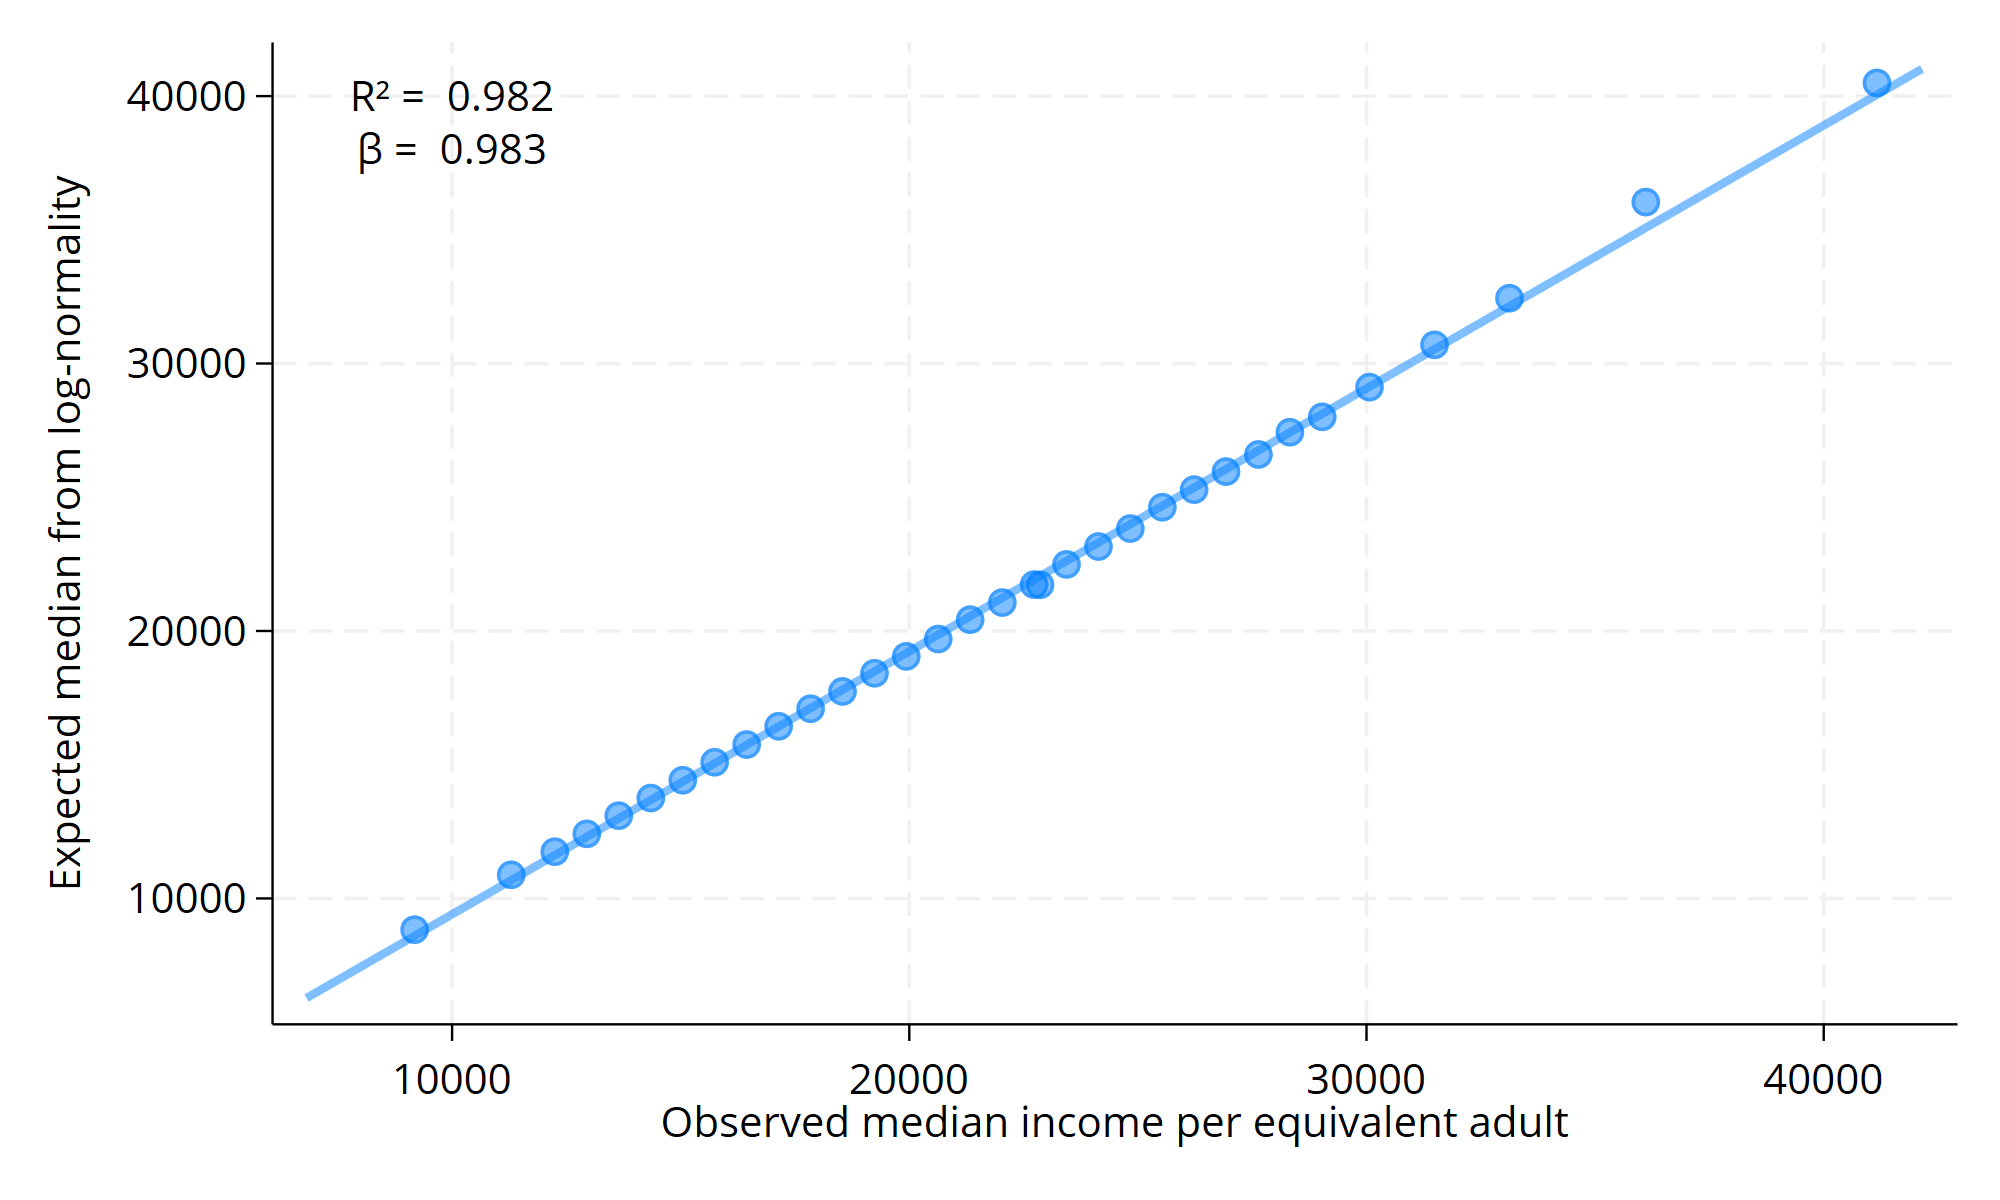
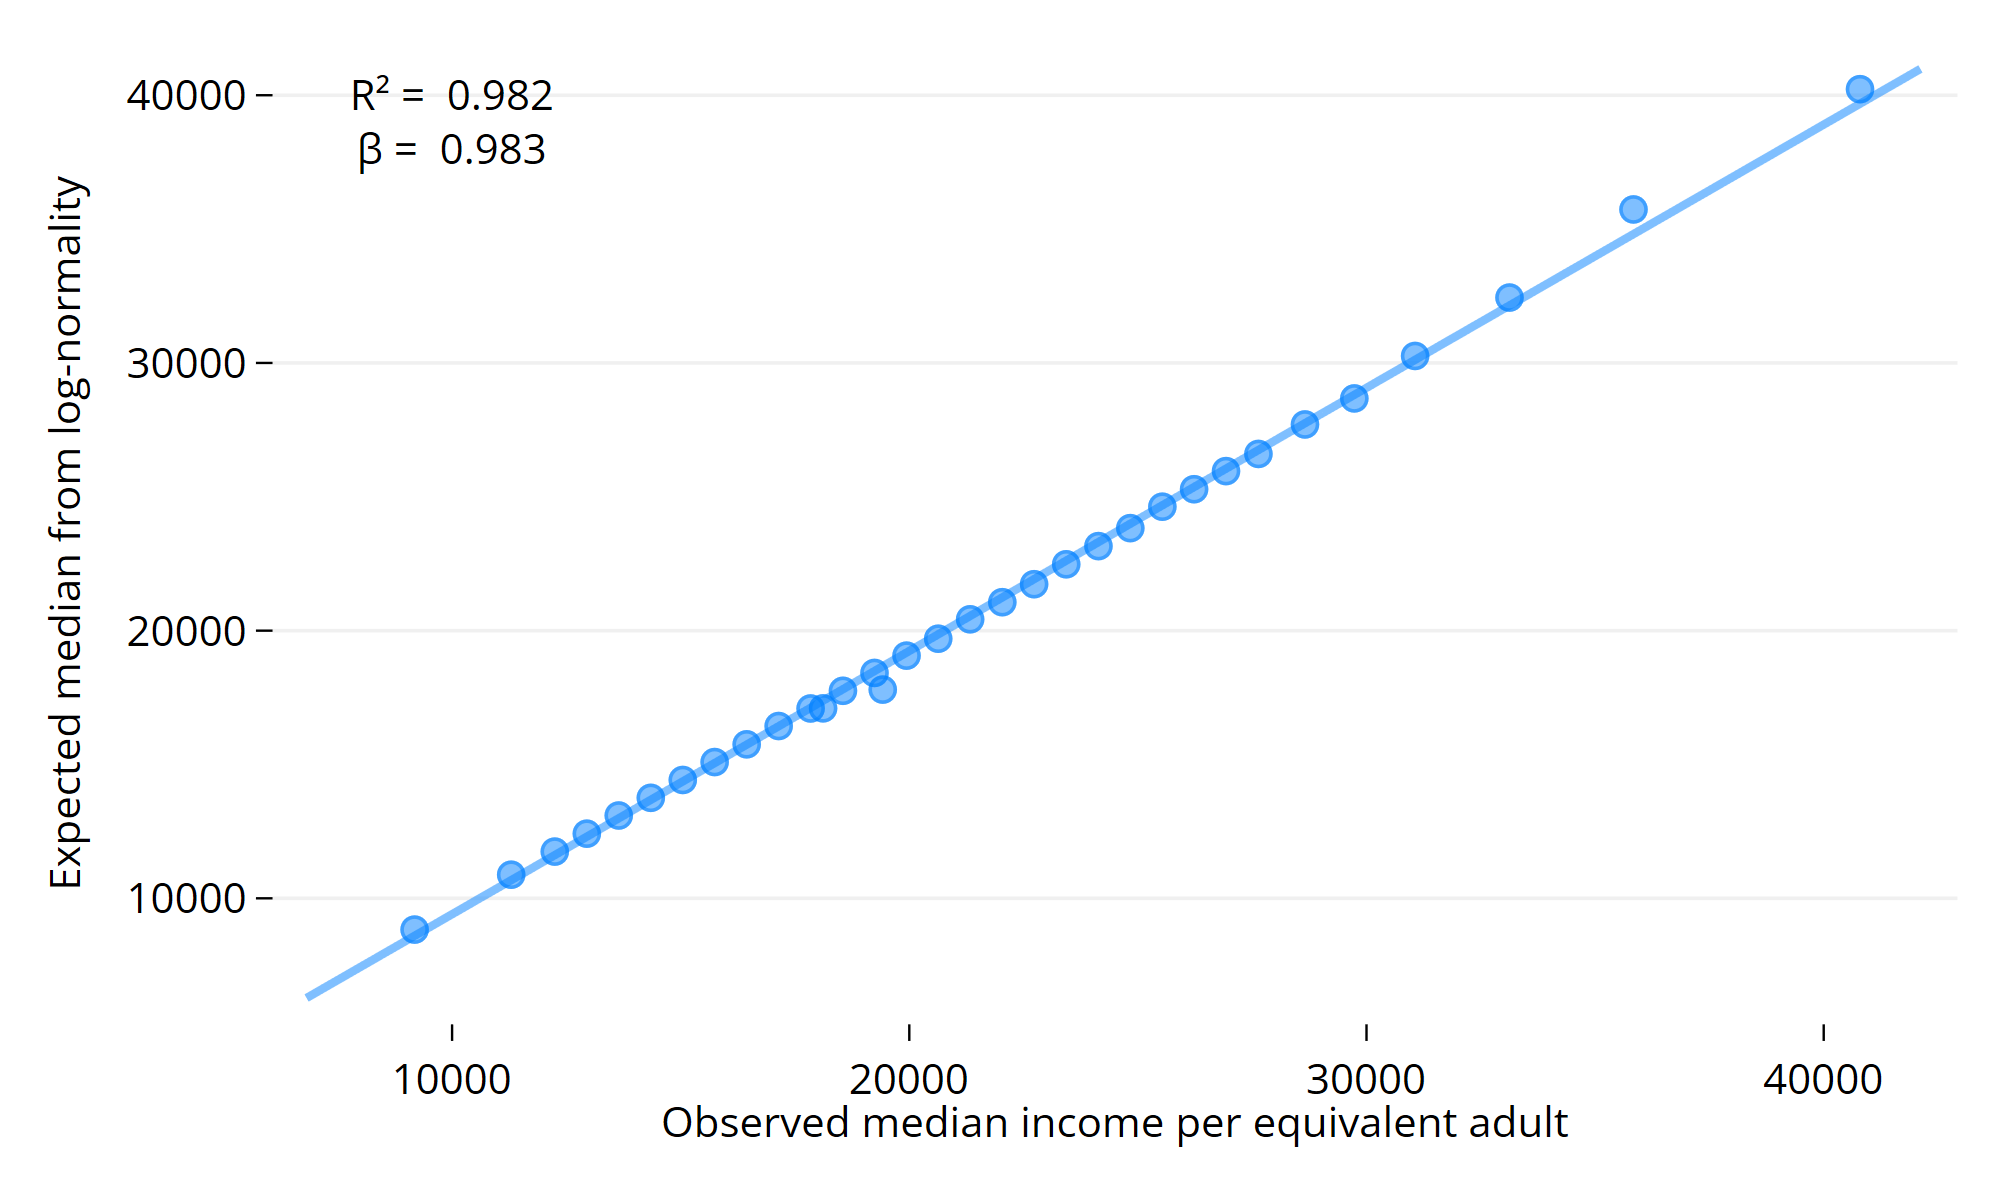
quick test

diff --git a/methodology/output/summary_stats.tex b/methodology/output/summary_stats.tex
@@ -5,15 +5,15 @@
  & Min & Max & Mean & SD & \% missing\\
 \midrule
 \qquad \textit{Income distribution} \\
-Net income per capita &  4,996.00 & 34,765.00 & 14,030.16 &  4,193.34 &      1.63\\
-Net income per equivalent adult &  8,092.00 & 55,987.00 & 20,797.51 &  6,628.08 &      5.20\\
-Gini &     20.30 &     44.20 &     29.02 &      3.84 &      5.20\\
+Net income per capita &  4,996.00 & 34,765.00 & 14,030.16 &  4,193.34 &      1.64\\
+Net income per equivalent adult &  8,092.00 & 55,987.00 & 20,797.51 &  6,628.08 &      5.21\\
+Gini &     20.30 &     44.20 &     29.02 &      3.84 &      5.21\\
 \qquad \textit{Demographics} \\
 Population &      3.00 & 12,144.00 &  1,303.10 &    663.26 &      1.45\\
 Dependency ratio &      0.09 &      4.00 &      0.63 &      0.17 &      1.45\\
 Mean age &     27.40 &     74.70 &     45.43 &      5.52 &      1.45\\
 Single-person households (\%) &      0.00 &    100.00 &     30.50 &      9.56 &      1.45\\
 \midrule
-No. of tracts &          36,982 \\
+No. of tracts &          36,983 \\
 \midrule
 \end{tabular}
